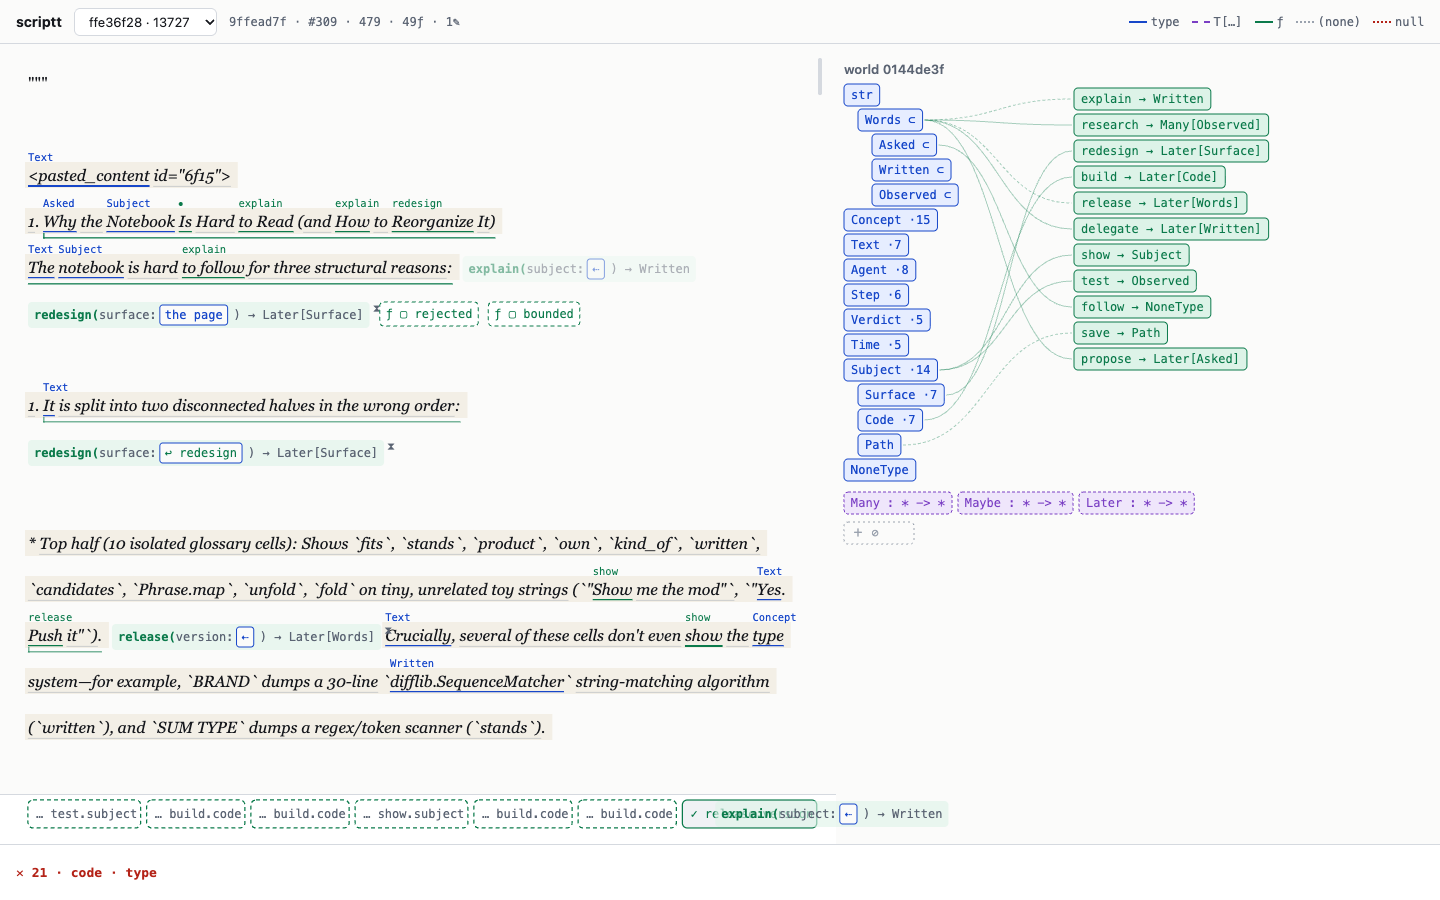
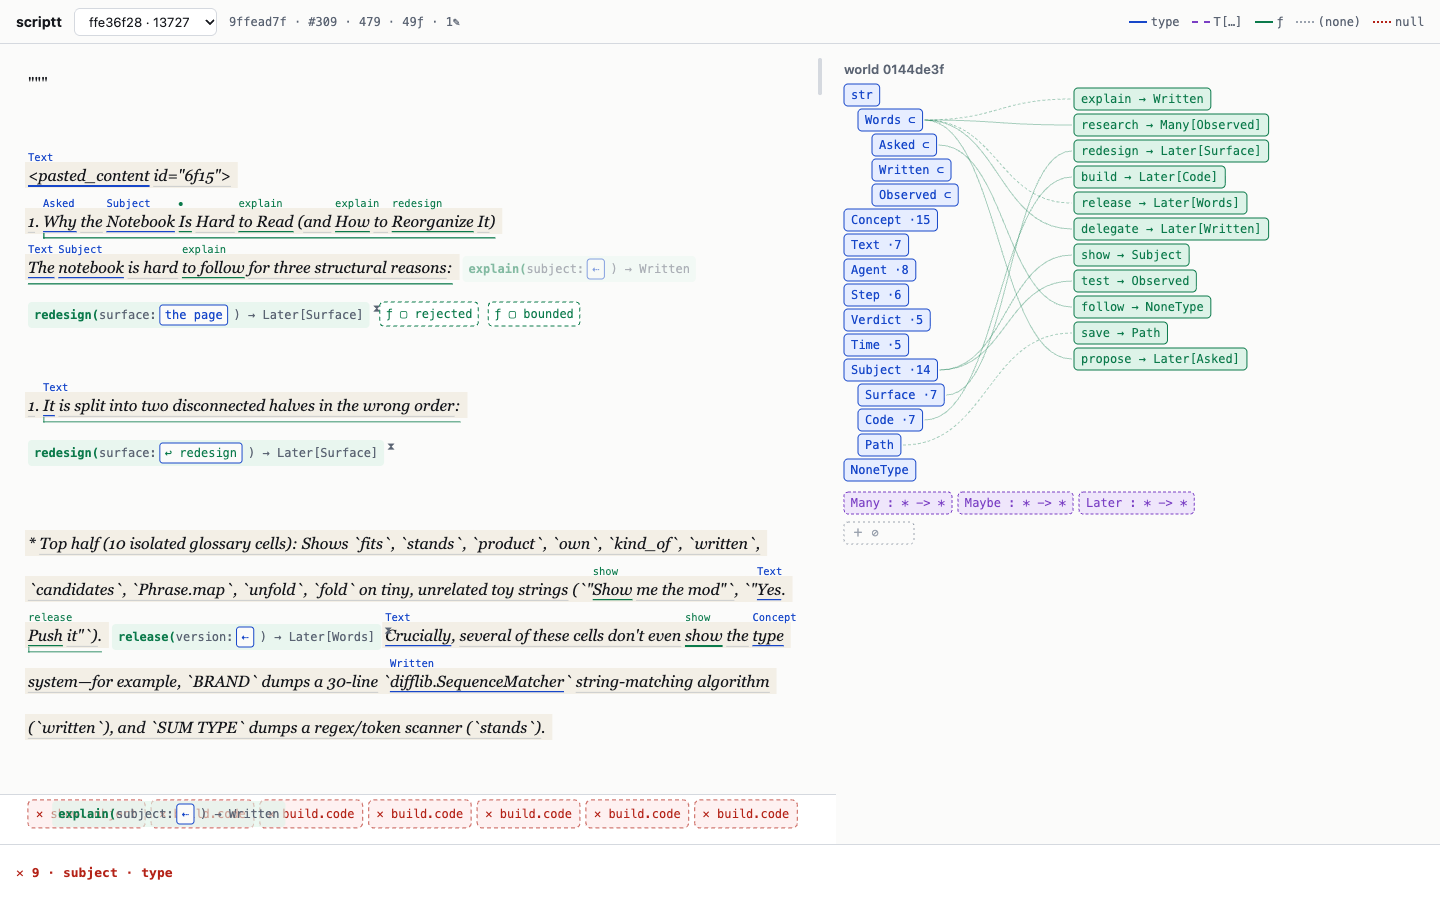
Board 5: audit run 8 on five long prompts with screenshots; hand-over notes

Changed region(s): [[0.0312, 0.8711, 0.5938, 0.9333], [0.0312, 0.9644, 0.125, 0.9956], [0.625, 0.9022, 0.6562, 0.9333]]

diff --git a/notes/BOARD5.md b/notes/BOARD5.md
@@ -1,0 +1,51 @@
+# Board 5: what is built, how to check it
+
+Page: `web/site/index.html` + `web/site/board.js` (one Dragology `DraggableRenderer`, SVG). Acceptance: `notes/ACCEPTANCE.md`.
+Audit: `web/site/audit.js`, driven by `web/audit-run.mjs` (headless Chrome over CDP: every pointer and key event is a trusted
+browser input event). Runs: `web/site/audits/board5/run*.json`, screenshots in `web/site/audits/board5/shots/`.
+
+```
+node web/audit-run.mjs --accept --shots web/site/audits/board5/shots 8c7eae08 ffe36f28 2086c1e0 adf412fe a32bfced
+```
+
+`--accept` accepts one retag on the first reading through `/accept`, reloads `/readings` to check the store, then undoes it with
+`/restore` (by keyboard, `z`). Without it nothing is saved; every other change is an `/edit` preview, cancelled.
+
+## Shape
+
+- The message once, in reading order. Words are the engine's words (`scriptt16.places`, mirrored for layout only), each piece of
+  `pieces` is a link: underline coloured by what its kind is (type, constructed type, function, `(none)`, null), dashed for
+  constructed types and null, thin when `sure` is false; its kind written above the words when there is room, a dot when not.
+- Each operation: a bracket under its phrase and, after the phrase, `fn(place: slot, …) → Result`. Slots: `⇠` (the words in
+  the text), member words (a world member), `↩ fn` (a reference to an earlier operation's result), `▢ T · reason` (a hole),
+  `∅ T` (empty). `ƒ ▢ reason` = an unresolved request. A red dot = not complete; `⧗` pending; `⏲` deferred.
+- The right column is the page of what is open (a link, a type, a function, an operation, a place), or the world graph when
+  nothing is: types (brands under what they wrap, sums over their alternatives, `·n` members), functions with an edge from each
+  parameter's type, constructors, and `＋ ⊘` where world editing would go (not built in the engine).
+- Pasted text (`<pasted_content>` blocks, `>` lines, written replies) is italic on a tint; code fences are monospace.
+
+## Every drag is a Dragology spec
+
+- Words (grab a link; its kind floats as a chip): `d.closest` over `d.dropTarget`s (each line of every link in view, each place
+  in view, each place in the rail) `.whenFar(unlink)`, `.withFloating({ghost})`. Dropped on words = those words get this kind
+  (adjacent words in the same phrase = the link widens over both); on a place = `/edit {constant, type, at}`; far = `(none)`.
+- Handles of the open link: `d.closest` over the word boundaries ±12 words; widen = retag the wider span, narrow = the words
+  let go become `(none)`.
+- Types, constructed types (`Many/Maybe/Later[T]` on a type page), d1's options, functions: onto words (retag).
+  Constructors (`Later : * -> *`) onto words wrap the words' kind. Functions onto `ƒ ▢` = a new operation (`number: null`).
+- Members onto places (`at: [-1,-1]`), results (an operation's name) onto places (`{ref}`), a filled place's value onto another
+  place, or far = cleared (`{hole, reason: "cleared"}`).
+- The scroll bar is `d.vary` on the scroll position.
+- A custom modifier, `drafted`, draws the engine's `/edit` draft for whatever state the spec chose, and redraws when the answer
+  arrives; a refused state drops as no change and shows the engine's codes. While a thing is held the rail (bottom of the view)
+  lists the places of the whole reading, frozen for the hold, each with the engine's verdict: `✓`, `✕`, `…`.
+- Keyboard: arrows move between links; Enter opens; Space picks up; arrows cycle the same options (each previewed); Enter drops;
+  Escape cancels; `]` `[` `{` `}` widen/narrow; Tab switches to the right column; `a` accepts, `z` undoes.
+
+## Known limits
+
+- `/edit` takes 0.22 s (short readings) to 0.85 s (13,727 characters) because the server rescans the store per request and is
+  single-threaded, so the rail's verdicts trickle in on long prompts. Asked the lead for a batch endpoint (`POST /edits`).
+- Type docstrings come from d1's kind options (the same docstrings), so a reading with no kind decision shows none.
+- Nesting of two function spans inside one phrase and world editing: not in the engine; not drawn, not faked.
+- A press during a state change can land on the fading previous drawing; page changes remount the renderer to avoid it.
